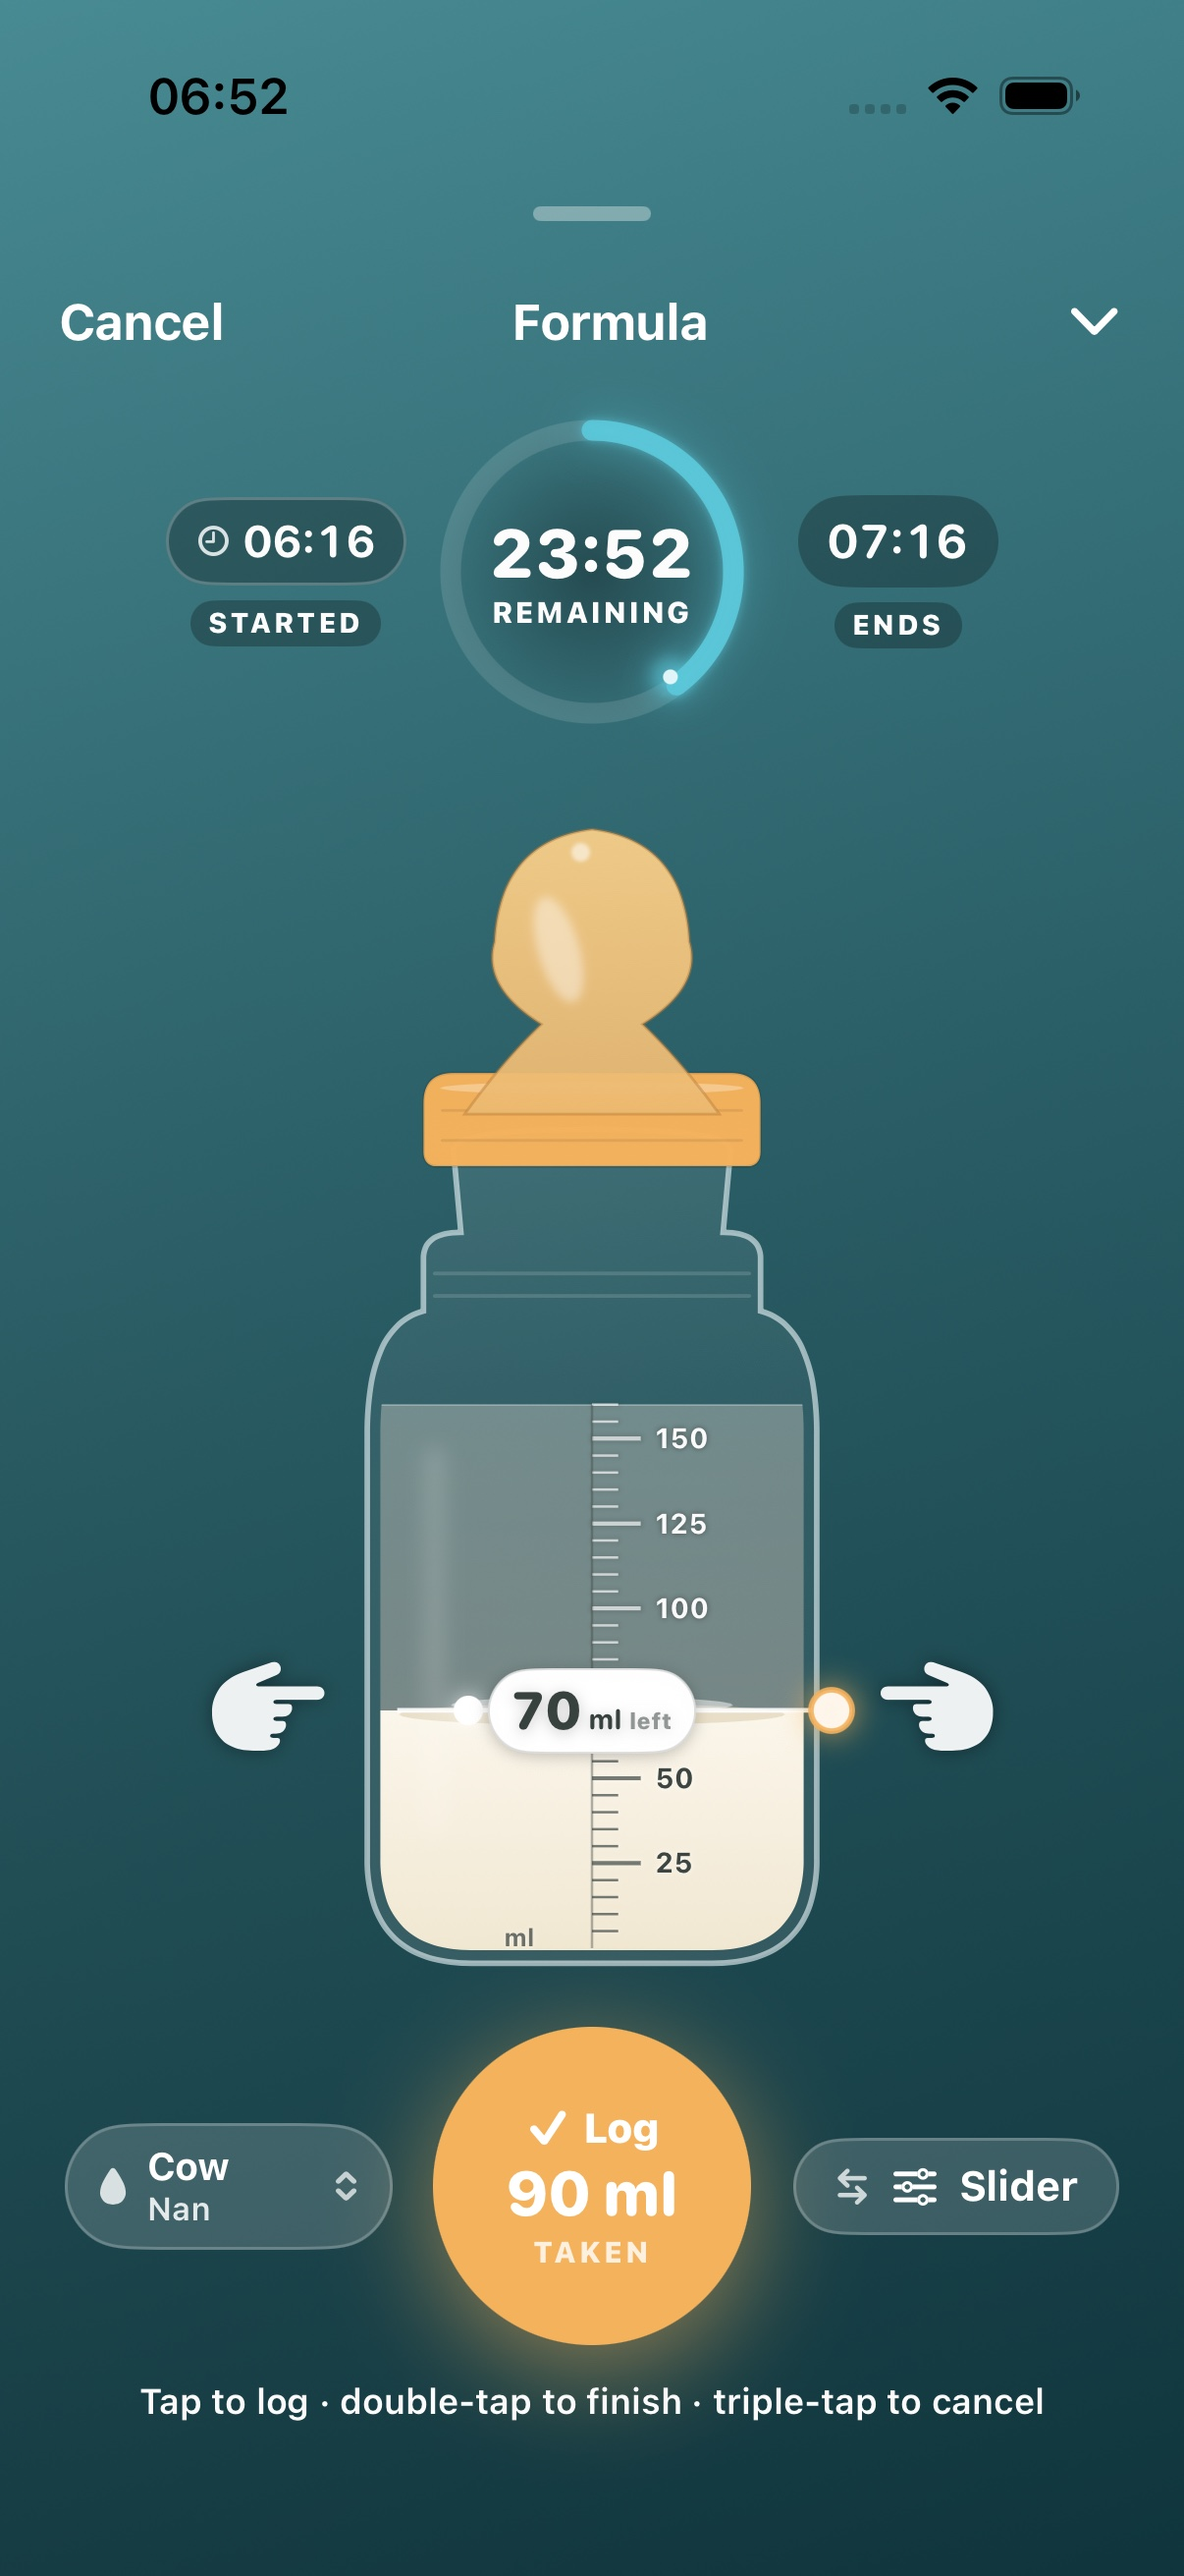
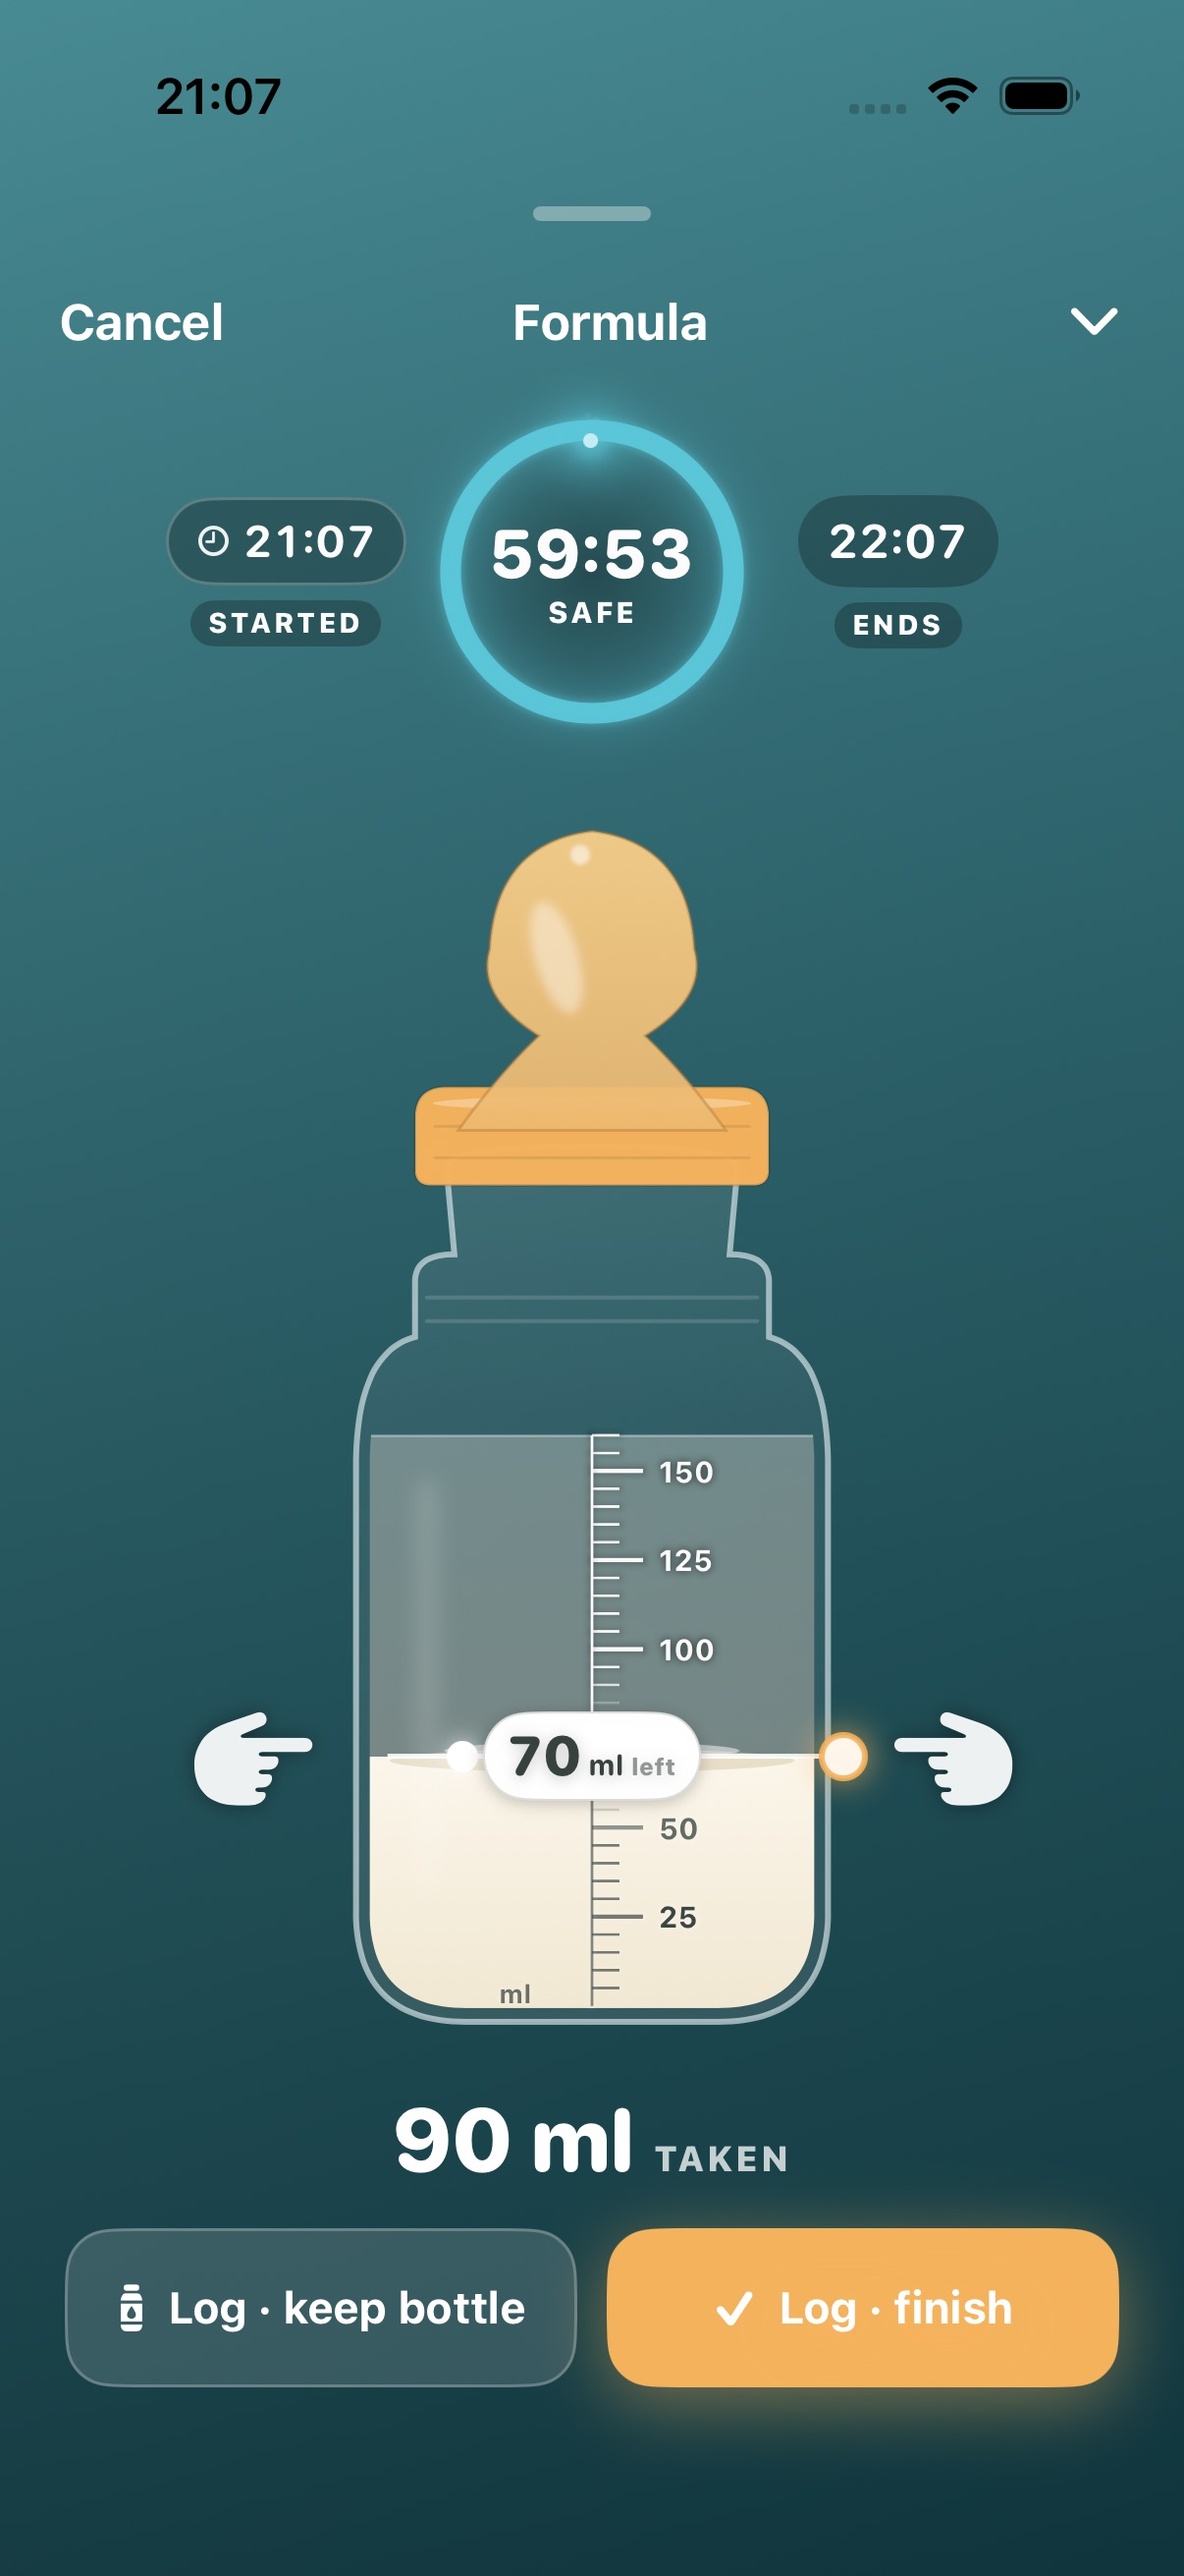
site: brand-audit pass — §11 breaks fixed, every screen from the current build
- 'never miss a feed' → 'always know when the next feed is due' (§15's own
  worked example was live on the page)
- FAQ stops promising family sharing 'free after launch' (fenced for v1)
- the weight-monitor card leaves marketing (MESSAGING §5: KILL) → replaced
  by the approved pay-once + logging-free-forever beat
- the mockup gallery is removed until rebuilt from real captures — it sat
  two scrolls below our own 'no mock-ups' claim
- tracker → app everywhere (store name is 'Feed Flow! Baby Feeding App');
  schema.org floor 26.1 → 18.0
- all five screens/*.jpg refreshed from build 167+ (certified store set +
  fresh growth/logging captures): no 'Logged by Kaja', no 'saving' sheet,
  readable meter marks, word-labelled WHO band
- 85%/90% beat-tags dropped (numbers without on-image proof)

Prepared by Claude; Robin reviews and pushes (outward surface).

diff --git a/index.html b/index.html
@@ -7,7 +7,7 @@
 <link rel="preconnect" href="https://fonts.googleapis.com">
 <link rel="preconnect" href="https://fonts.gstatic.com" crossorigin>
 <link href="https://fonts.googleapis.com/css2?family=Baloo+2:wght@600;700;800&display=swap" rel="stylesheet">
-<meta name="description" content="Feed Flow! is the calm baby feeding tracker for iPhone. A safe-window timer on every prepared bottle tells you when it's no longer safe, smart sizes help you waste less, and you learn what's normal for your baby — plus a report you can hand to the health nurse. Coming soon to iOS.">
+<meta name="description" content="Feed Flow! is the calm baby feeding app for iPhone. A safe-window timer on every prepared bottle tells you when it's no longer safe, smart sizes help you waste less, and you learn what's normal for your baby — plus a report you can hand to the health nurse. Coming soon to iOS.">
 <link rel="canonical" href="https://tryfeedflow.app/">
 <!-- Privacy-first, cookieless funnel analytics (no PII, no consent banner needed).
      Requires a Plausible account for tryfeedflow.app — see ANALYTICS.md. Until then it
@@ -43,7 +43,7 @@
       "@type": "SoftwareApplication",
       "@id": "https://tryfeedflow.app/#app",
       "name": "Feed Flow!",
-      "operatingSystem": "iOS 26.1+",
+      "operatingSystem": "iOS 18.0+",
       "applicationCategory": "HealthApplication",
       "applicationSubCategory": "Baby & Parenting",
       "inLanguage": ["en"],
@@ -530,7 +530,7 @@ footer.ft { border-top: 1px solid var(--border-2); padding: 54px 0 60px; }
 <!-- ============ HERO ============ -->
 <section class="hero">
   <div class="wrap">
-    <div class="eyebrow reveal"><span class="dot"></span> Baby feeding tracker · coming soon to iPhone</div>
+    <div class="eyebrow reveal"><span class="dot"></span> Baby feeding app · coming soon to iPhone</div>
     <h1 class="reveal d1">The bottle tells you when it's <span class="grad">no longer safe.</span></h1>
     <p class="sub reveal d2">A calm countdown runs on every prepared bottle — started, remaining, ends — right there on your Lock Screen. No sniff test, no doubt. And the rest of it, Feed Flow! quietly keeps for you: when the next feed's due, how much to prepare, how much formula you're not wasting, how your baby is growing.</p>
     <div class="hero-cta reveal d2">
@@ -550,7 +550,7 @@ footer.ft { border-top: 1px solid var(--border-2); padding: 54px 0 60px; }
   <div class="hero-stage reveal d2">
     <div class="device">
       <div class="plinth"></div>
-      <div class="bezel"><img src="screens/safe-window.jpg" alt="A prepared formula bottle in Feed Flow, with its safe window counting down: started 06:16, 23 minutes 52 seconds remaining, ends 07:16. The bottle shows 70 ml left, and the button below logs the 90 ml taken." loading="eager"></div>
+      <div class="bezel"><img src="screens/safe-window.jpg" alt="A prepared formula bottle in Feed Flow, with its safe window counting down: started 21:07, 59 minutes 53 seconds remaining, ends 22:07. The bottle shows 70 ml left and the 90 ml taken, with buttons to log and keep the bottle or log and finish." loading="eager"></div>
     </div>
   </div>
 </section>
@@ -586,15 +586,13 @@ footer.ft { border-top: 1px solid var(--border-2); padding: 54px 0 60px; }
         <span class="beat-num">Waste less of something precious</span>
         <h3>Prepare closer to what they actually take.</h3>
         <p>A little left in the bottle is normal, and often out of your hands. Feed Flow! quietly learns the sizes your baby really takes and suggests them as you log, so you pour closer to right and less goes down the sink. It shows how that's going — measured, rounded down, never a guilt trip.</p>
-        <div class="beat-tags">
-          <span class="beat-tag"><span class="fd" style="background:var(--feed-formula)"></span>Formula 85% efficient</span>
-          <span class="beat-tag"><span class="fd" style="background:var(--feed-pumped)"></span>Pumped milk 90%</span>
-        </div>
+        <!-- beat-tags removed 2026-07-29 (site audit): the 85%/90% figures belonged to a
+             retired capture; numbers without on-image proof are §11 territory. -->
       </div>
       <div class="beat-device">
         <div class="device">
           <div class="plinth"></div>
-          <div class="bezel"><img src="screens/savings.jpg" alt="Bottle efficiency screen: how much was left in the bottle at the start versus now, and efficiency by feed type" loading="lazy"></div>
+          <div class="bezel"><img src="screens/savings.jpg" alt="The logging panel with learned usual-size chips — 120, 130 and 150 ml — suggesting what the baby actually takes, above a one-tap bottle button" loading="lazy"></div>
         </div>
       </div>
     </div>
@@ -621,7 +619,7 @@ footer.ft { border-top: 1px solid var(--border-2); padding: 54px 0 60px; }
     <!-- Beat 3 — Predict (FlowCast) -->
     <div class="beat reveal">
       <div class="beat-copy">
-        <span class="beat-num">FlowCast · never miss a feed</span>
+        <span class="beat-num">FlowCast · always know when the next feed is due</span>
         <h3>A calm countdown to the next one.</h3>
         <p>After a few days FlowCast learns your baby's rhythm and shows when the next feed is likely due — plus a gentle plan for the day ahead across noon, evening and night. A nudge, never an alarm, never guilt.</p>
         <div class="beat-tags">
@@ -632,7 +630,7 @@ footer.ft { border-top: 1px solid var(--border-2); padding: 54px 0 60px; }
       <div class="beat-device">
         <div class="device">
           <div class="plinth"></div>
-          <div class="bezel"><img src="screens/forecast.jpg" alt="Looking ahead screen: next feed countdown ring and an upcoming plan for noon, evening and night" loading="lazy"></div>
+          <div class="bezel"><img src="screens/forecast.jpg" alt="Looking ahead screen: the next feed's time and window, with a calm plan of tomorrow's bottles, nursing and solids on one timeline" loading="lazy"></div>
         </div>
       </div>
     </div>
@@ -651,7 +649,7 @@ footer.ft { border-top: 1px solid var(--border-2); padding: 54px 0 60px; }
       <div class="beat-device">
         <div class="device">
           <div class="plinth"></div>
-          <div class="bezel"><img src="screens/growth.jpg" alt="Growth screen: weight-for-age plotted on WHO percentile bands with the baby at the 39th percentile, plus a feeding-to-growth link summary" loading="lazy"></div>
+          <div class="bezel"><img src="screens/growth.jpg" alt="Growth screen: weight-for-age plotted on the WHO band with the baby at the 49th percentile, the band edges labelled in words, and the last weigh-ins listed with dates" loading="lazy"></div>
         </div>
       </div>
     </div>
@@ -676,6 +674,10 @@ footer.ft { border-top: 1px solid var(--border-2); padding: 54px 0 60px; }
     </div>
     <!-- Order follows the highlight hierarchy: waste less · what's normal · report · allergens · forecast · themes.
          Owed: a safe-window frame to lead the strip (pillar 1) — no mockup exists for it yet. -->
+    <!-- GALLERY REMOVED 2026-07-29 (site audit): these six images were browser-rendered
+         mock-ups sitting two scrolls below the page's own "Real screens — no mock-ups"
+         claim (§9 no-fake-anything). Rebuild this strip from real captures — the
+         certified App Store set (FeedFlow-AppStore-Set-v3) is the source — then restore.
     <div class="gal-strip reveal d2">
       <img src="marketing/mockups/savings.png" alt="Waste-less screen: bottles not poured down the sink this month, and how much of each bottle your baby actually takes by feed type" loading="lazy">
       <img src="marketing/mockups/logging.png" alt="Calm logging screen: milk today, a live feed timeline, and the one-slider one-button logger" loading="lazy">
@@ -684,7 +686,8 @@ footer.ft { border-top: 1px solid var(--border-2); padding: 54px 0 60px; }
       <img src="marketing/mockups/flowcast.png" alt="FlowCast screen: a countdown ring to the next likely feed and a calm plan for the day ahead" loading="lazy">
       <img src="marketing/mockups/themes.png" alt="Theme picker: the same calm home screen shown in Sunset, Ocean and Meadow colour themes" loading="lazy">
     </div>
-    <div class="gal-hint reveal">← swipe to explore →</div>
+    -->
+    <div class="gal-hint reveal" style="display:none">← swipe to explore →</div>
   </div>
 </section>
 
@@ -789,8 +792,8 @@ footer.ft { border-top: 1px solid var(--border-2); padding: 54px 0 60px; }
       </div>
       <div class="feat-card reveal d1">
         <div class="feat-ico"><svg viewBox="0 0 24 24" fill="none" stroke="currentColor" stroke-width="1.8" stroke-linecap="round" stroke-linejoin="round"><path d="M12 21s-6.5-4.3-6.5-9.2A6.5 6.5 0 0 1 12 5.5a6.5 6.5 0 0 1 6.5 6.3C18.5 16.7 12 21 12 21z"/><path d="M9 11.6l2 2 4-4"/></svg></div>
-        <h3>Reassurance in the early days</h3>
-        <p>In those first weeks, Feed Flow! gently keeps an eye on early weight change against typical newborn patterns — calm reassurance when you need it most. Always free, never a diagnosis.</p>
+        <h3>Pay once if you prefer</h3>
+        <p>A one-time Lifetime option — no subscription required. And logging every feed stays free, forever.</p>
       </div>
     </div>
   </div>

diff --git a/faq.html b/faq.html
@@ -3,8 +3,8 @@
 <head>
   <meta charset="UTF-8" />
   <meta name="viewport" content="width=device-width, initial-scale=1.0" />
-  <title>FAQ — Feed Flow! Baby Feeding Tracker</title>
-  <meta name="description" content="Answers to common questions about Feed Flow!, the calm one-handed baby feeding tracker — is my baby eating enough, how Smart sizes work, the safe-window countdown on a prepared bottle, wasting less formula, what's free vs premium, privacy, and more.">
+  <title>FAQ — Feed Flow! Baby Feeding App</title>
+  <meta name="description" content="Answers to common questions about Feed Flow!, the calm one-handed baby feeding app — is my baby eating enough, how Smart sizes work, the safe-window countdown on a prepared bottle, wasting less formula, what's free vs premium, privacy, and more.">
   <meta name="robots" content="index, follow">
   <link rel="canonical" href="https://tryfeedflow.app/faq">
   <meta property="og:type" content="website">
@@ -89,7 +89,7 @@
 
   <p class="faq-q">Does it work offline?</p>
   <p>Yes. Feed Flow! is fully offline — log a feed on a plane or in a basement nursery. When you're back online
-  it syncs to your own iCloud so your family stays in step.</p>
+  it syncs to your own iCloud so your own devices stay in step.</p>
 
   <h2>Understanding your baby</h2>
 
@@ -145,9 +145,9 @@
   <h2>Sharing with your family</h2>
 
   <p class="faq-q">Can my partner or my baby's grandparent log too?</p>
-  <p>Not in the first release. Sharing one live log between caregivers is built and still being tested, and it will
-  arrive in a free update after launch — we'd rather hold it back than ship something half-working for the people
-  who'd depend on it most. Until then, the log lives in your own iCloud, on your own devices.</p>
+  <p>Not in the first release. Sharing one live log between caregivers is built and still being tested — we'd
+  rather hold it back than ship something half-working for the people who'd depend on it most. Until then, the
+  log lives in your own iCloud, on your own devices.</p>
 
   <h2>Privacy &amp; your data</h2>
 

diff --git a/SCREENSHOTS.md b/SCREENSHOTS.md
@@ -25,7 +25,7 @@ benefit/outcome, not UI. Keep captions short + benefit-led + readable at thumbna
 > allergens move up to frame 2. No frame may show a savings total as its subject and no caption
 > may name a kroner figure.
 > **Owed:** a safe-window frame (none exists yet) and a re-render of
-> `marketing/appstore/01-savings.png`, whose caption still reads "Save on formula" — the website
+> `marketing/appstore/01-savings.png`, whose caption still reads "Waste less formula" — the website
 > mockup `marketing/mockups/savings.png` has been re-rendered to waste-less framing, the App
 > Store asset has not.
 
@@ -36,7 +36,7 @@ benefit/outcome, not UI. Keep captions short + benefit-led + readable at thumbna
 4. **Calm logging** — the heart. "One slider. One smart button."
 5. **Report** — the premium anchor. "A report for the health nurse."
 6. **Themes** — personalization (users want to see it). "Calm, in your colour."
-7. **FlowCast** *(if a 7th is uploaded)* — "Never miss a feed."
+7. **FlowCast** *(if a 7th is uploaded)* — "Always know when the next feed is due."
 
 Sources: first-3 = ~60–70% of conversion, benefit heroes +45%, 6–8 shots +35% engagement, show
 dark-mode/themes — apptweak / Screenhance / AppScreenshotStudio 2026.
